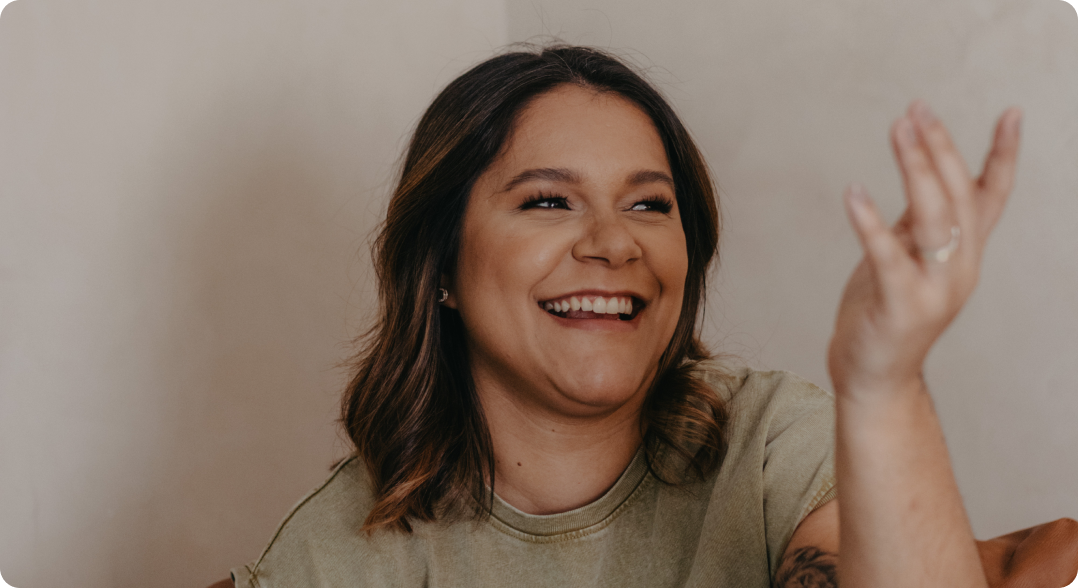
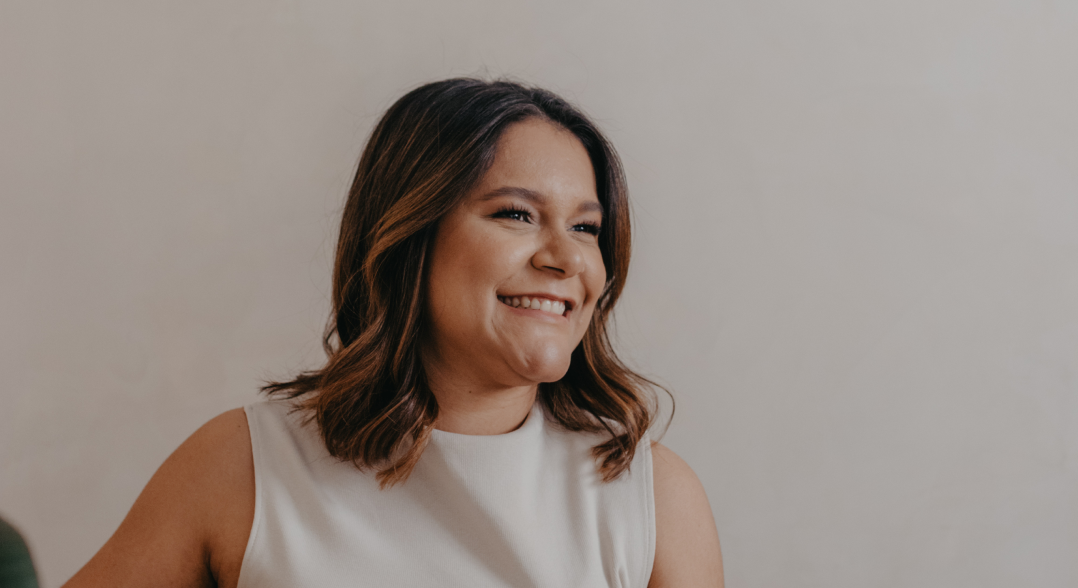
new photos

diff --git a/src/pages/ProjectDetails.jsx b/src/pages/ProjectDetails.jsx
@@ -110,13 +110,13 @@ const ProjectDetails = () => {
       ))}
       {isFullScreen && (
         <div
-          className="cursor-hover px-4 lg:gap-[5vw]  fixed inset-0 flex justify-center items-center bg-black bg-opacity-80 z-50 trans"
+          className="cursor-hover px-4 lg:gap-[5vw]  fixed inset-0 flex justify-center items-center bg-black bg-opacity-80 z-50 trans lg:py-[2vw]"
           onClick={handleClose}
         >
           <img
             src={currentImage}
             alt="FullScreen"
-            className="max-w-full max-h-full rounded-md lg:rounded-[1vw]"
+            className="max-w-full max-h-full rounded-md lg:rounded-[1vw] "
             data-aos="fade-up"
             data-aos-duration="1500"
           />

diff --git a/src/Home.jsx b/src/Home.jsx
@@ -18,8 +18,8 @@ function Home() {
           data-aos-duration="1500"
         >
           <p className="text-[#696667] text-[1.1rem] md:w-[50vw] lg:w-[40vw] italic lg:text-[2vw]">
-            Estou sempre aberta a novos desafios que possam expandir meus
-            conhecimentos e habilidades, tanto no design quanto na fotografia.
+            Aqui você encontra meus projetos, com criações tanto na publicidade
+            quanto na fotografia.
           </p>
         </section>
         <Projects />
